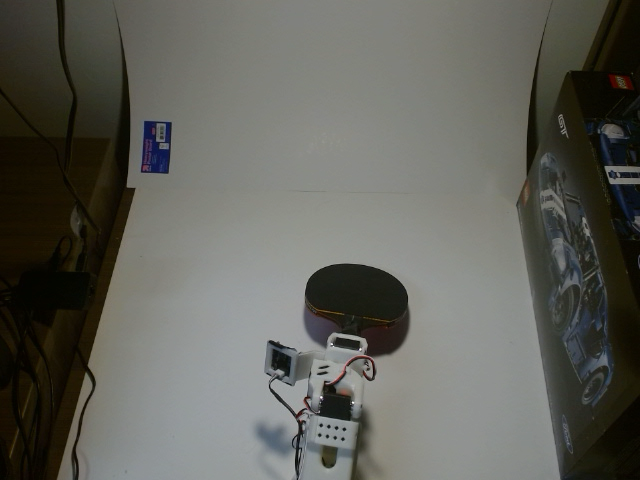
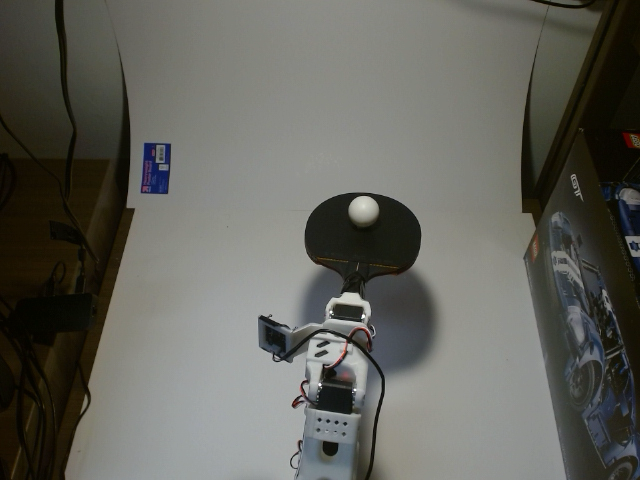
so101-bounce: paddle re-taped and re-levelled with the ball 2026-11-05 22:33 (median of 5 rolls 0.15 deg forward, 0.04 left; wrist offsets flex 10.9, roll 94.7), then the camera recalibrated on it (16 poses, 1.52 px, depth 0.7 cm, latency 60 ms); level_ball --rolls / --goal

diff --git a/so101-bounce/real/level_ball.py b/so101-bounce/real/level_ball.py
@@ -1,7 +1,7 @@
 """Level the paddle with the ball as the spirit level: hold the bounce pose, watch the ball roll, tilt the wrist
 against the roll, repeat until the ball stays put; then fit the wrist offsets (joint_map) and the hold pose to it.
 
-  uv run python real/level_ball.py [--start-tilt FWD LEFT]
+  uv run python real/level_ball.py [--start-tilt FWD LEFT] [--rolls 3] [--goal 0.6]
 
 Start with the arm folded at rest. It glides to the bounce pose and holds. Each round: set the ball near the paddle
 centre and take your hand away. The camera follows the roll for up to 1.2 s; take the ball off once it has rolled. A
@@ -95,6 +95,8 @@ def main():
     ap = argparse.ArgumentParser(description=__doc__, formatter_class=argparse.RawDescriptionHelpFormatter)
     ap.add_argument("--start-tilt", type=float, nargs=2, metavar=("FWD", "LEFT"),
                     help="deg: a previous run's mean real tilt at the hold pose, corrected before the first roll")
+    ap.add_argument("--rolls", type=int, default=ROLLS, help="rolls per correction (their median is used)")
+    ap.add_argument("--goal", type=float, default=GOAL_DEG, help="deg: save once the median tilt is below this")
     a = ap.parse_args()
     sign, off = rig._jmap()
     env = BounceEnv(EnvCfg(num_envs=1, device="cpu"))
@@ -138,7 +140,7 @@ def main():
             correct(np.sin(np.radians(a.start_tilt)), q, tilt_xy(kin, q))
         fixes, rolls = 0, []
         while fixes < ROUNDS:                 # a hand over the ball ends a try early: only rolls count (Ctrl-C stops)
-            print(f"fix {fixes + 1}, roll {len(rolls) + 1}/{ROLLS}: set the ball near the paddle centre, take your hand away...")
+            print(f"fix {fixes + 1}, roll {len(rolls) + 1}/{a.rolls}: set the ball near the paddle centre, take your hand away...")
             got = watch_roll(cam, finder, model, home)
             if got is None:
                 print("  did not see the ball roll on the paddle (put it near the centre); trying again")
@@ -154,15 +156,15 @@ def main():
                 print(f"  over {MAX_DEG} deg with the joints unmoved: a pushed or dropped ball; not counted")
                 continue
             rolls.append((real, q, mdl))
-            if len(rolls) < ROLLS:
+            if len(rolls) < a.rolls:
                 print("  take the ball off")
                 time.sleep(1.0)
                 continue
             real, q, mdl = np.median([r[0] for r in rolls], 0), rolls[-1][1], rolls[-1][2]
             rolls = []
             deg = np.degrees(np.arcsin(np.clip(real, -1, 1)))
-            print(f"  median of {ROLLS} rolls: {np.round(deg, 2)} deg")
-            if np.hypot(*deg) < GOAL_DEG:
+            print(f"  median of {a.rolls} rolls: {np.round(deg, 2)} deg")
+            if np.hypot(*deg) < a.goal:
                 saved = A.read_pos(b)
                 print("  level")
                 break
